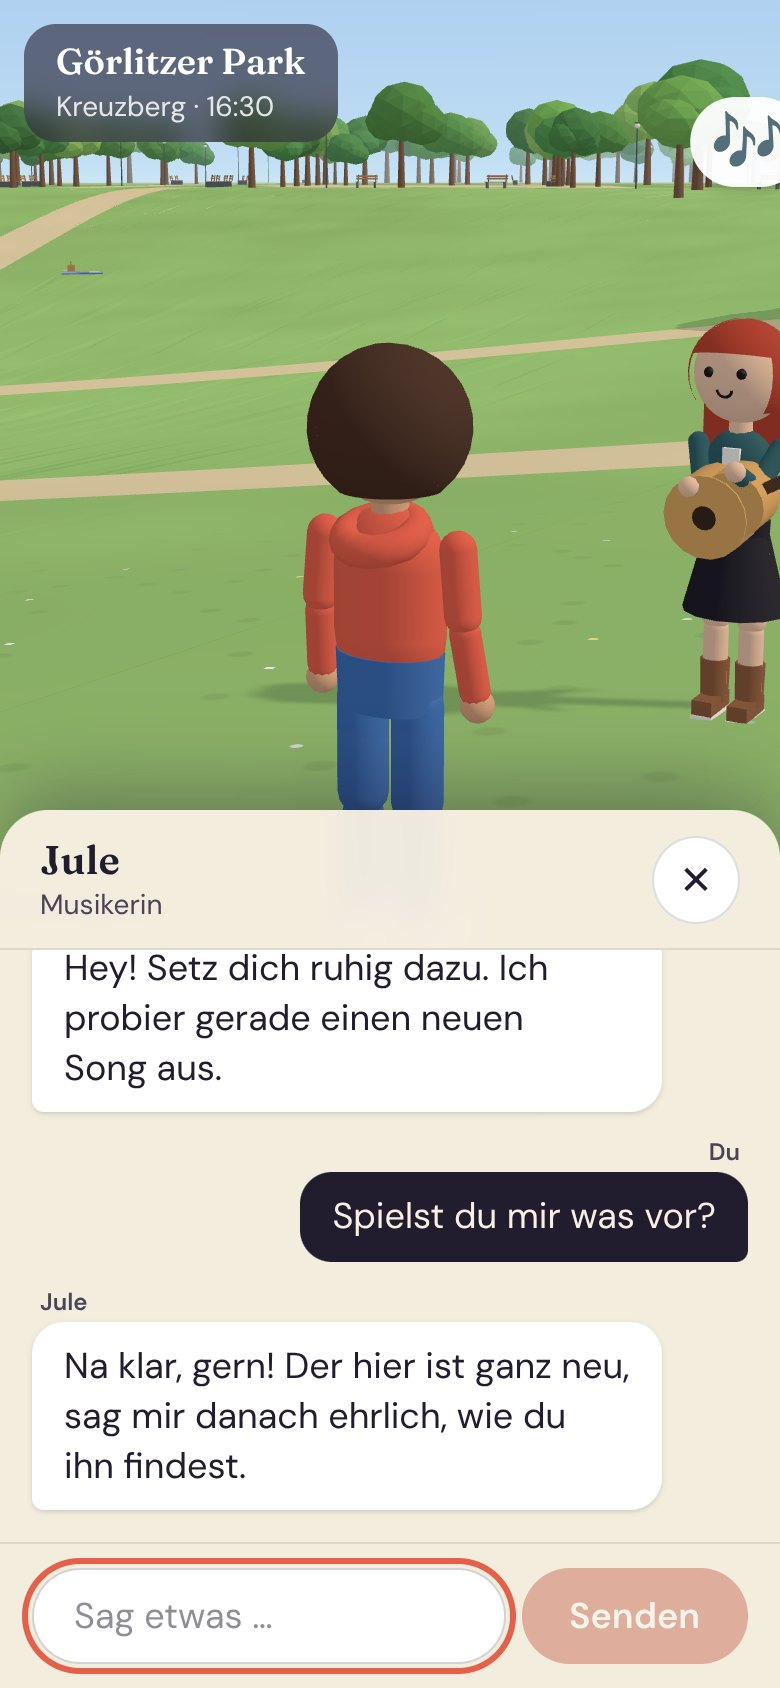
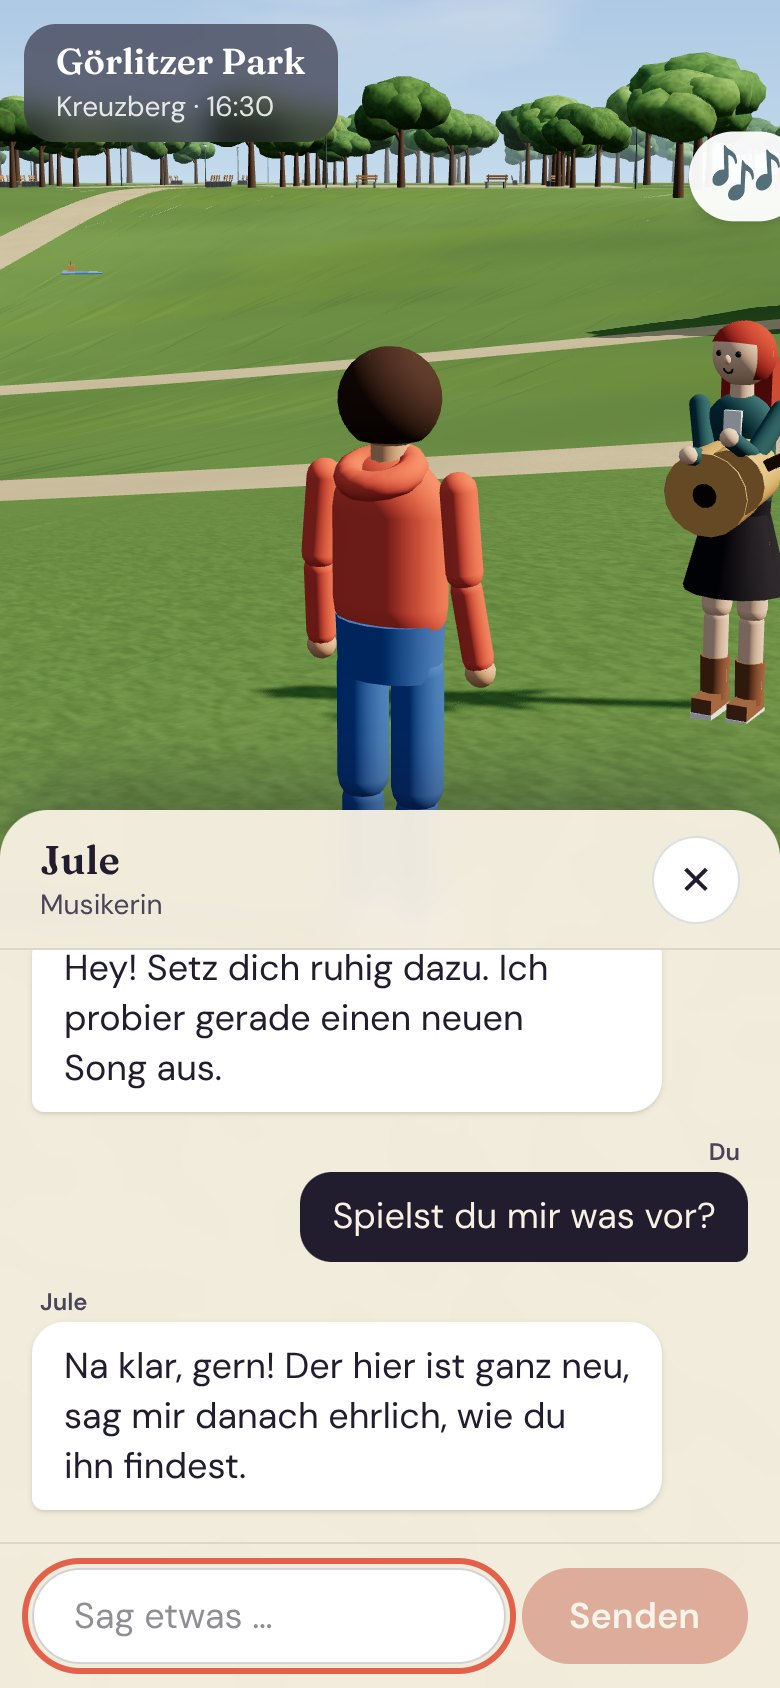
chore: finish M7 docs, refresh screenshots, keep shop fronts clear of wall projections
Claude-Session: https://claude.ai/code/session_01FL7tPHWMN49Bpov2PyDNg2

diff --git a/scripts/build_place.ts b/scripts/build_place.ts
@@ -649,7 +649,8 @@ function snapShops(place: Place, buildings: Building[]): PlaceManifest["shops"] 
       log("shops", `${place.id}: no wall found behind "${shop.name}", keeping its position`);
       return [shop.x, shop.z, shop.heading];
     }
-    const out = 0.12;
+    // Far enough out to clear pilasters and other small projections.
+    const out = 0.36;
     return [
       round(origin[0] - normal[0] * best + Math.sin(heading) * out),
       round(origin[1] - normal[1] * best + Math.cos(heading) * out),

diff --git a/game/place/Props.tsx b/game/place/Props.tsx
@@ -245,8 +245,8 @@ function ShopFront({
   return (
     <group position={[placement[0], 0, placement[1]]} rotation={[0, placement[2], 0]}>
       {/* Frame, windows, door */}
-      <mesh position={[0, 1.75, 0]}>
-        <boxGeometry args={[SHOP_WIDTH, 3.5, 0.16]} />
+      <mesh position={[0, 1.75, -0.27]}>
+        <boxGeometry args={[SHOP_WIDTH, 3.5, 0.7]} />
         <meshStandardMaterial color="#f3ead9" roughness={0.9} />
       </mesh>
       {[-2.5, 2.5].map((x) => (

diff --git a/docs/PROGRESS.md b/docs/PROGRESS.md
@@ -2,6 +2,15 @@
 
 Newest entry first.
 
+## M7: Portfolio polish (done)
+
+- README with hero screenshot, feature list, architecture diagram, stack, local start and licenses.
+- `/about` in German and English with the Mermaid architecture diagram (library loaded on demand), data sources and repository link.
+- `public/assets/LICENSES.md`.
+- Lighthouse on the title page (production build, local): performance 99, accessibility 100, best practices 100, SEO 100.
+- Final run: 152 unit tests, 22 Playwright scenarios on desktop and mobile, lint, typecheck and build all green.
+- Still open on Mer's side: Supabase project, Qwen key, Vercel import (`docs/SETUP.md`). Until then the deployed app runs in mock mode with localStorage.
+
 ## Realism pass (done)
 
 Requested after M6: a more realistic look. Filmic tone mapping, muted palettes, detailed procedural facades and ground surfaces, smoother trees, procedural clouds with haze, adult character proportions. Details in DECISIONS D24.

diff --git a/docs/PLAN.md b/docs/PLAN.md
@@ -78,8 +78,8 @@ Checked items are done and verified. See `docs/PROGRESS.md` for the log and `doc
 
 ## M7: Portfolio polish
 
-- [ ] README with hero screenshot, features, architecture diagram, stack, local start, licenses
-- [ ] `/about` page with Mermaid diagram and data sources
-- [ ] `public/assets/LICENSES.md`
-- [ ] Lighthouse check of the start page
-- [ ] Final run of all tests
+- [x] README with hero screenshot, features, architecture diagram, stack, local start, licenses
+- [x] `/about` page with Mermaid diagram and data sources
+- [x] `public/assets/LICENSES.md`
+- [x] Lighthouse check of the start page
+- [x] Final run of all tests
